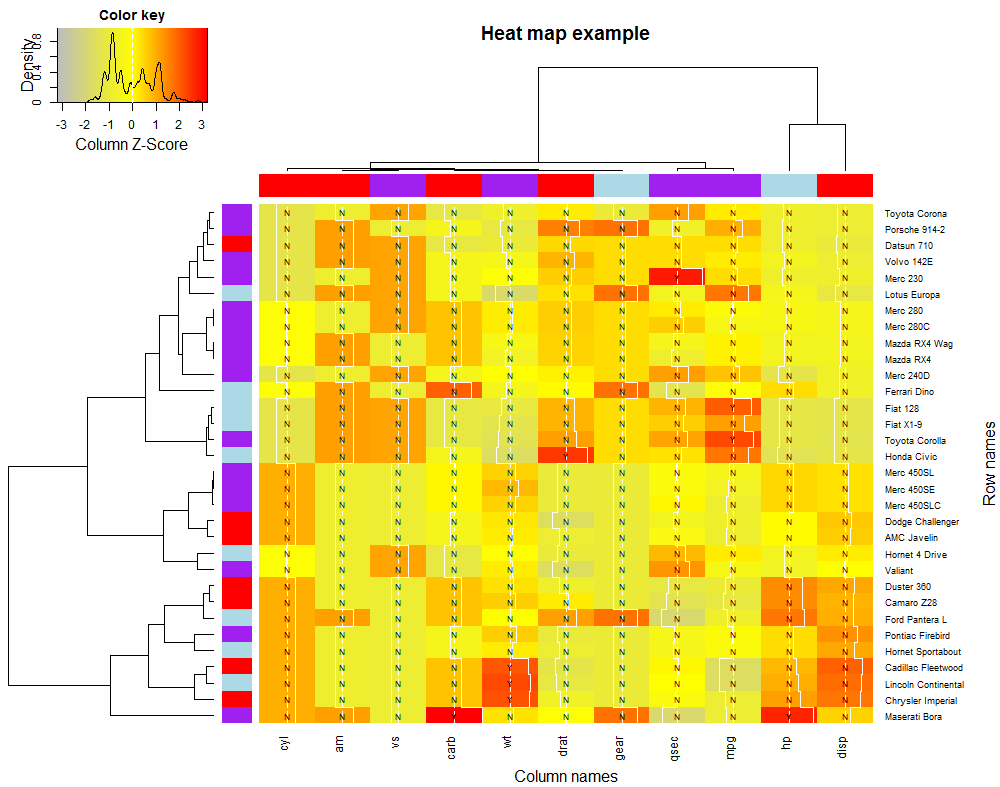
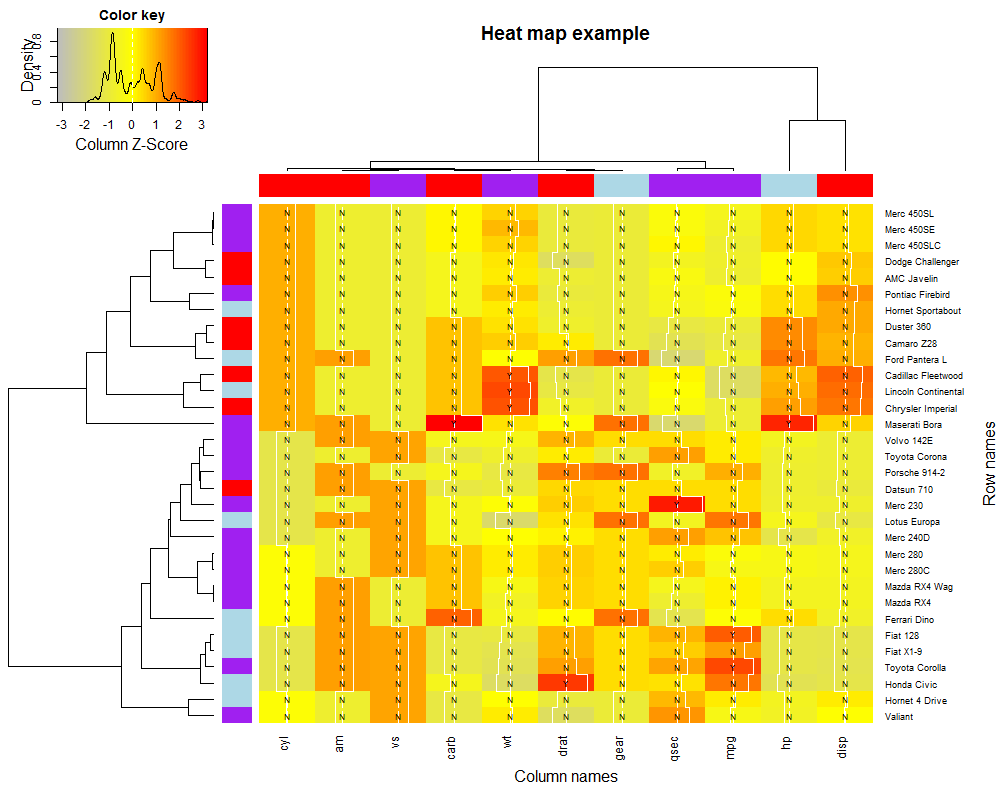
new heat map fig

diff --git a/posts_en/_posts/2015-12-26-R-function-heatmap.2.md b/posts_en/_posts/2015-12-26-R-function-heatmap.2.md
@@ -4,33 +4,33 @@ title: R function - heatmap.2
 ---
 
 ## Heat map
-**Heat map** is a kind of representation method that uses colors (always gradients) to represent the values in a matrix. It is very useful to detect valuable patterns in (large) data set (with many variables) quickly. See [Wikipedia](https://en.wikipedia.org/wiki/Heat_map) for details.
+**Heat map** is a kind of representation method that uses colors (always gradients) to represent the values in a matrix. It is very useful to detect valuable patterns in (large) data sets (with many variables) quickly. See [Wikipedia](https://en.wikipedia.org/wiki/Heat_map) for details.
 
 <!-- more -->
 
 ## Example in R using *heatmap.2*
-There is an advanced function in package *gplots*, **heatmap.2**. It provides a number of extensions to make your heat maps more interesting and informational.
+There is an advanced function in package *gplots*, *heatmap.2*. It provides a number of extensions to make your heat maps more interesting and informational.
 
 {% highlight r linenos %}
 library(gplots)
 library(RColorBrewer)
 
-# Use the data frame mtcars as an example, and transform to a matrix
+# Use the data frame "mtcars" as an example, and transform to a matrix
 data(mtcars)
 cars <- as.matrix(mtcars) # A matrix with row and column names; 
                           # you can set names with the functions 
-                          # rownames and colnames for other data sets.
+                          # "rownames" and "colnames" for other data sets.
 
 # Some pre-defined parameters will be used afterward
 cols <- colorRampPalette(c("gray",
     "yellow","red"))(100) # interpolate the given three colors 
-                          # to create new color palettes with 100 colors
+                          # to create new color palettes with 100 colors.
 
 colCols <- ifelse(colnames(cars)>"m","purple",
-    ifelse(colnames(cars)>"f","lightblue","red")) # set colors for the column names arbitrary
+    ifelse(colnames(cars)>"f","lightblue","red")) # set colors for the column names arbitrary.
 
 rowCols <- ifelse(rownames(cars)>"m","purple",
-    ifelse(rownames(cars)>"f","lightblue","red")) # set colors for the row names arbitrary
+    ifelse(rownames(cars)>"f","lightblue","red")) # set colors for the row names arbitrary.
 
 # The main function, and comments for frequently-used arguments. 
 # See Fig. 1 for the representation.
@@ -43,26 +43,26 @@ heatmap.2(
     Colv=TRUE, # if and how the column dendrogram should be reordered, 
                # always equal to "Rowv".
 
-    distfun=dist, # function used to compute the distance between 
-                  # both rows and columns. The default is Euclidean distance, 
-                  # but you can change the method (Notice, there is just a 
-                  # function name, if you want to change the distance, 
-                  # change "Rowv" directly).
+    distfun=function(x) 
+      {dist(x,method="manhattan")}, # function used to compute the distance between 
+                                    # both rows and columns. The default is Euclidean distance, 
+                                    # but you can change it (Notice, there is a function).
 
-    hclustfun=hclust, # function used to compute the hierarchical 
-                      # clustering when "Rowv" or "Colv" are not dendrograms. 
+    hclustfun=function(x) 
+      {hclust(x,method="average")}, # function used to compute the hierarchical 
+                                    # clustering when "Rowv" or "Colv" are not dendrograms. 
 
-    dendrogram="both", # draw dendrogram(s) for row, column, or both, or none.
+    dendrogram="both", # draw dendrogram(s) for "row", "column", or "both", or "none".
 
-    scale="column", # should normalize the values in row direction 
-                    # or the column direction, or neither (none).
+    scale="column", # should normalize the values in "row" direction 
+                    # or the "column" direction, or neither ("none").
 
     na.rm=TRUE, # whether the NAs should be removed.
     
     col=cols, # colors for the image, many many options, 
               # search for the functions "colorRampPalette", 
               # "rainbow", "colorpanel", "brewer.pal" ... 
-              # to improve your figures.
+              # then improve your figures.
     
     cellnote=ifelse(abs(scale(cars))>2,'Y','N') , # a matrix of character strings 
                                                   # which will be placed in each cell. 
@@ -98,8 +98,8 @@ heatmap.2(
     key.title="Color key", # main title of the color key. "NA" for no title.
 
     key.xlab=NULL, # x label of the color key. 
-                   # "NULL" for automatic label which
-                   # related the "density.info" you used.
+                   # "NULL" for automatic label which is 
+                   # related to the "density.info" you used.
 
     key.ylab=NULL, # y label of the color key.
 
@@ -116,4 +116,4 @@ heatmap.2(
 <img src="/images/heatmap.png" alt="fig1"/>
 **Figure 1** Heat map for data set *mtcars*.
 
-There are more arguments, see the [manual](https://cran.r-project.org/web/packages/gplots/) for more powerful operations. Be careful that some arguments are correlated, and you will try many times to draw a proper figure.
+There are more arguments, see the [manual](https://cran.r-project.org/web/packages/gplots/) for more powerful operations. Be careful that some arguments are correlated, and you should try many times to draw a proper figure.
